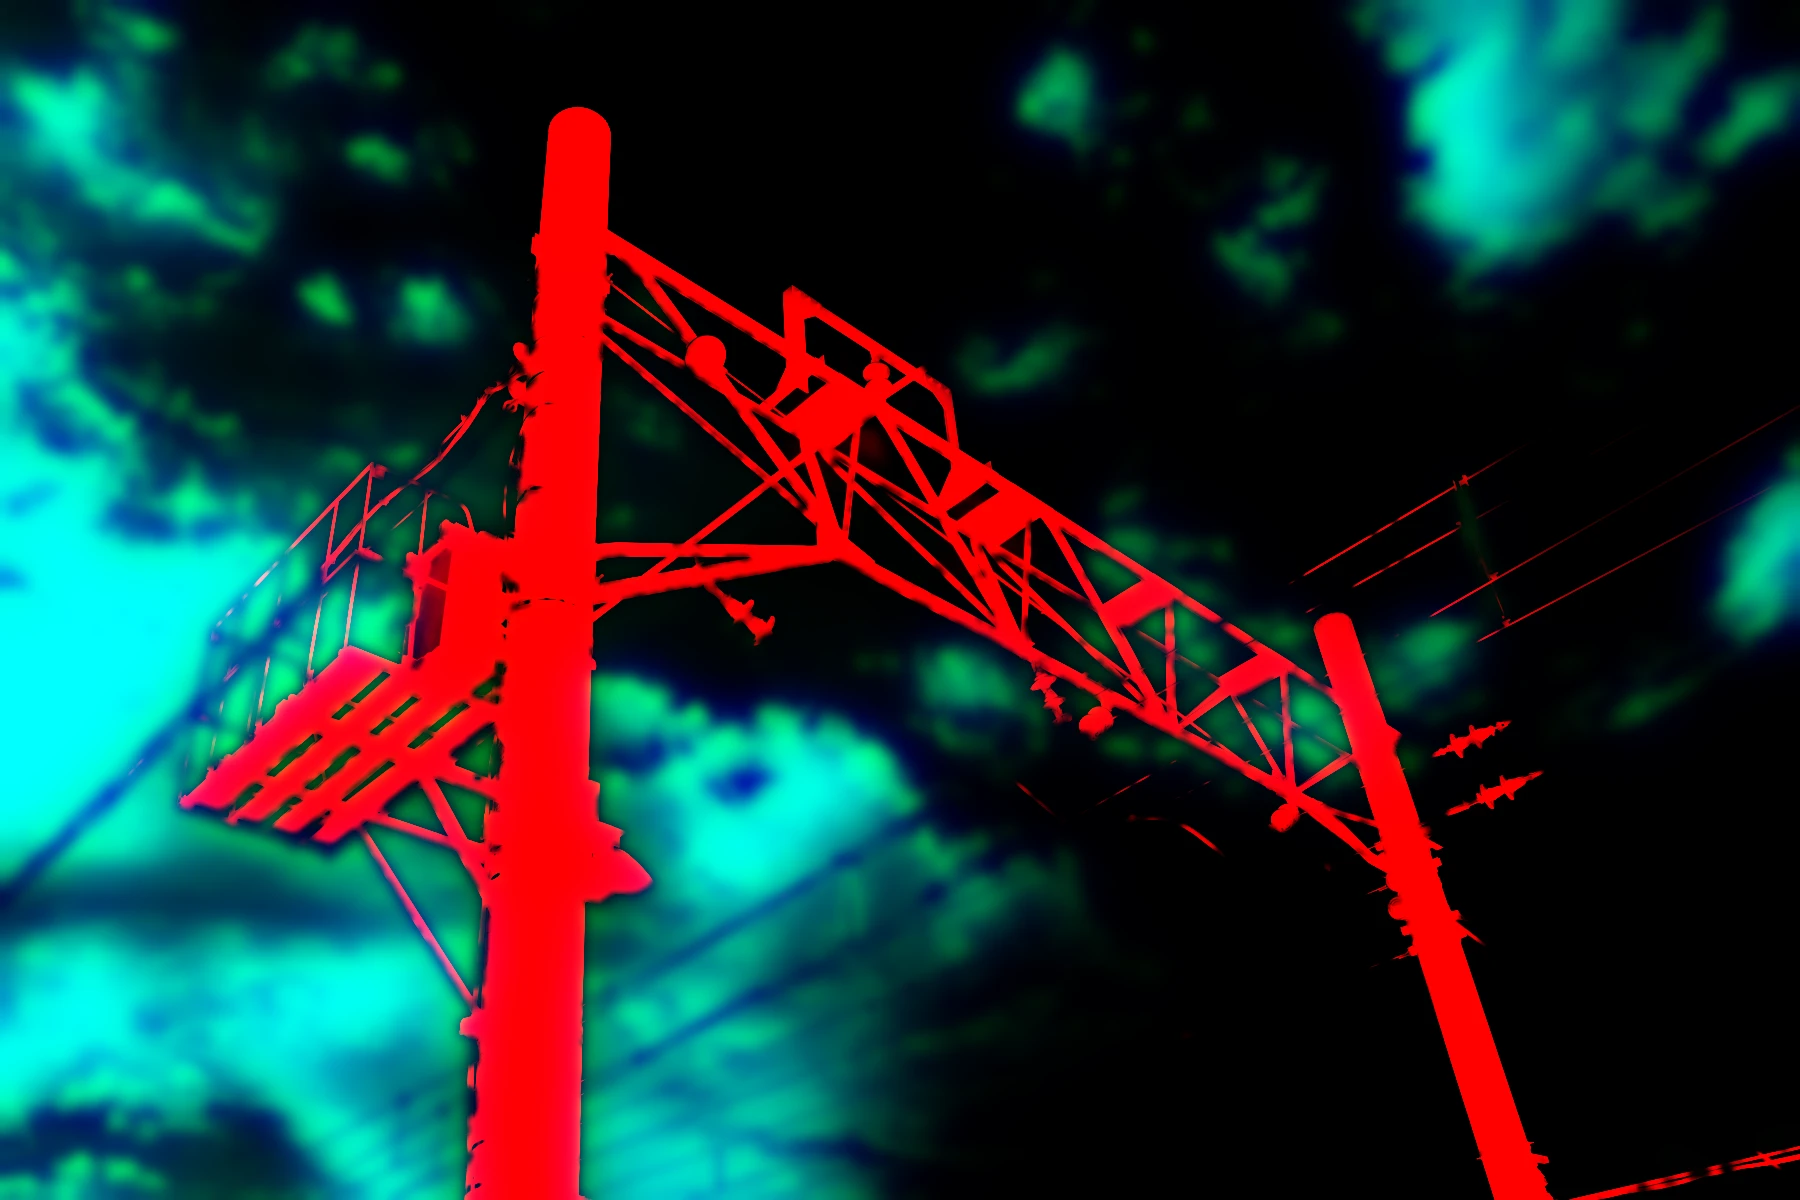
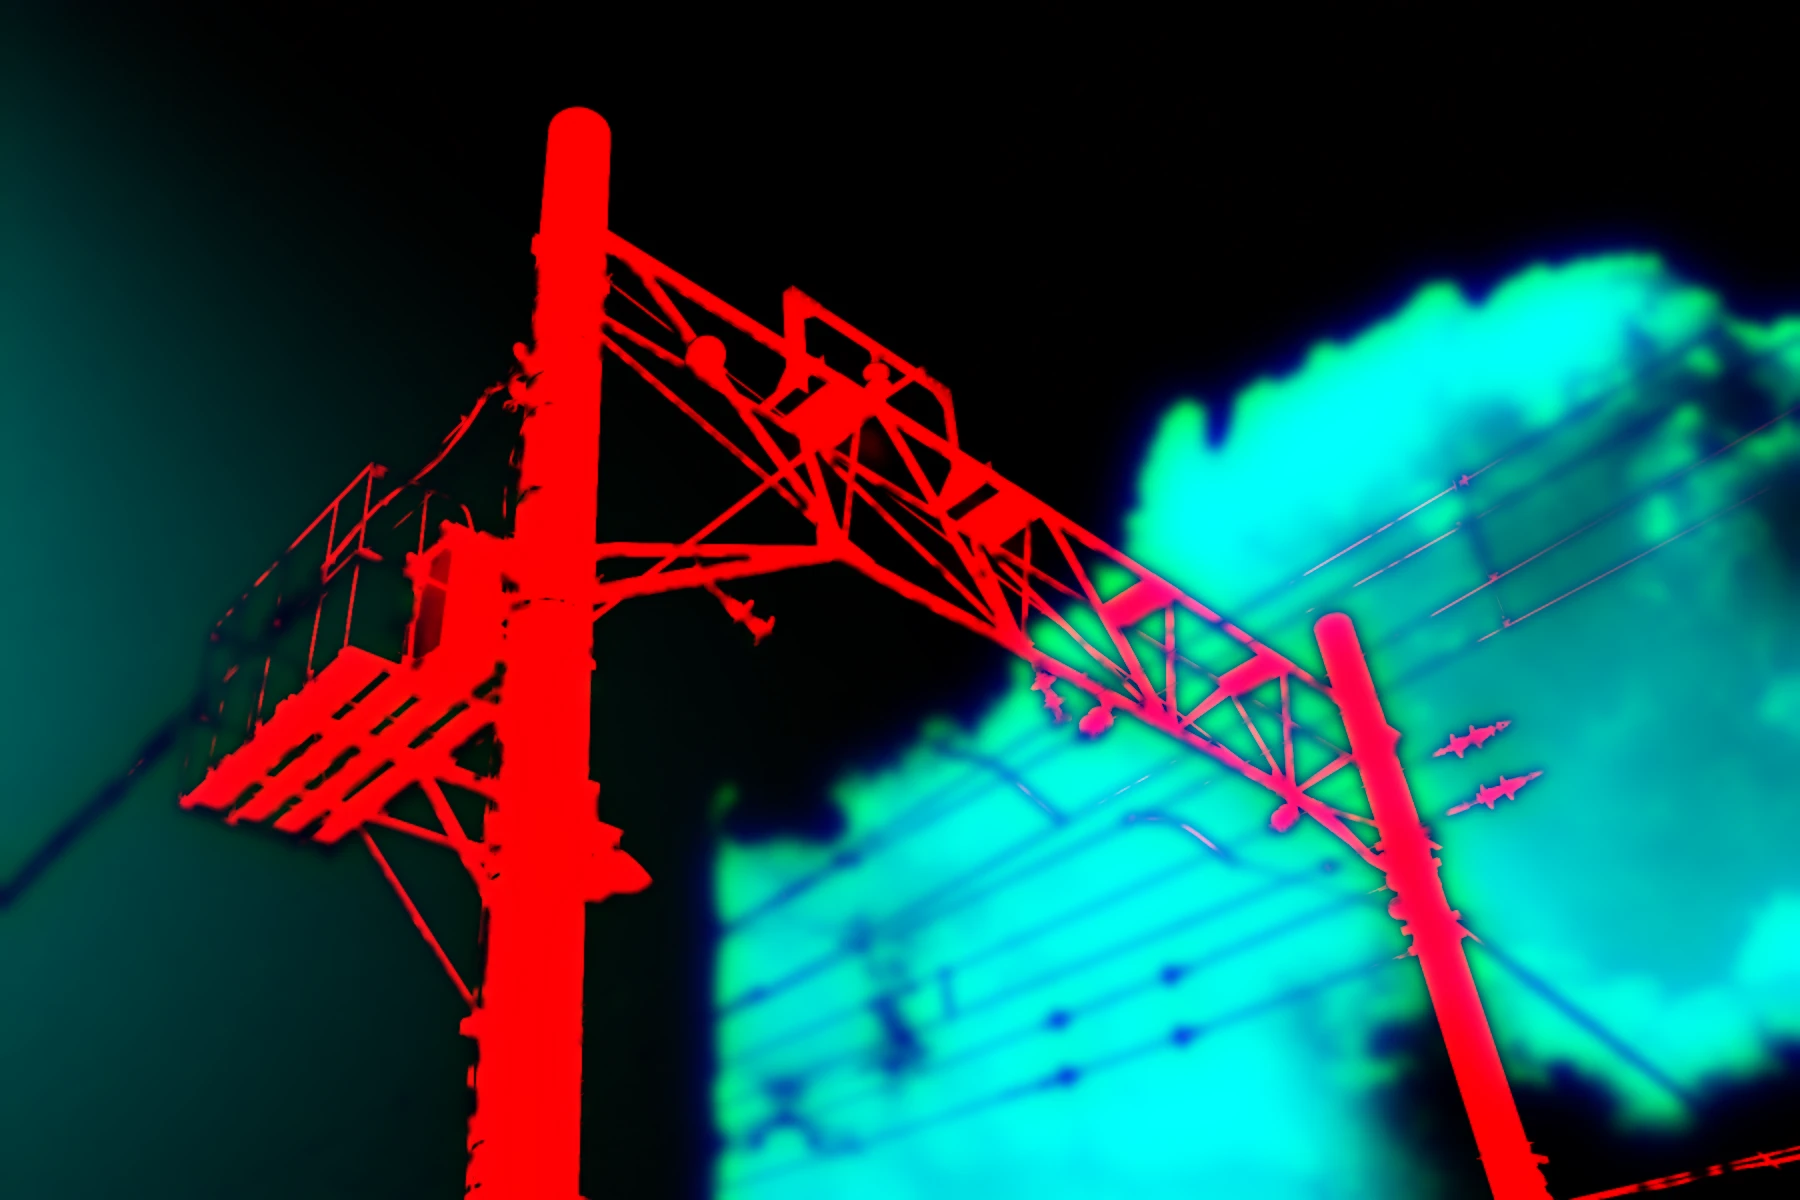
Lab: climb catenary round 1
Claude-Session: https://claude.ai/code/session_01RqENhngNCzDFmJWDZueXGV

diff --git a/src/app/lab/catenary/catenaryEngine.js b/src/app/lab/catenary/catenaryEngine.js
@@ -142,13 +142,17 @@ const CLOUD_TOP = [0xf6, 0xf3, 0xec];
 // chroma (PRINT_WHITE), and a strong aim only made a cream patch beside the
 // pale-blue body of a small cloud.
 const CLOUD_AIM = [1.02, 1, 0.95];
-const CLOUD_LIFT = 0.64;
+// The cumulus behind the gantry is already a sculpted, sunlit tower as
+// photographed (tools/depth/bakes/catenary/sky.py): the lift and the S-curve
+// only lay a little warmth on its tops (about 240-246 after the print); at
+// full strength they flattened its lobes to one creamy white.
+const CLOUD_LIFT = 0.2;
 // The cloud's modelling (see PLATE): where its range starts (blurred luma,
 // gamma), how far the S-curve goes (0 straight, 1 the doubled smoothstep),
 // and how far the shade masses draw toward CLOUD_SHADE, the blue-grey of a
 // cumulus underside lit only by the sky.
 const CLOUD_FROM = 0.6;
-const SCULPT = 0.6;
+const SCULPT = 0.2;
 const SHADE_TINT = 0.6;
 const CLOUD_SHADE = [0x9d, 0xb6, 0xcf];
 // Toward the sun, degrees in the photograph (0 right, 90 up): upper left,
@@ -161,7 +165,9 @@ const SUN = 125;
 // a cloud's width round it and slips softly over the steel's edges. The
 // steel takes DIFFUSE_STEEL of it: enough that the bloom overlaps a member
 // beside the cloud, not so much that the one silhouette goes grey.
-const DIFFUSE = 0.45;
+// Lowered with the one big cloud: a frame-wide veil at the old strength
+// greyed the truss and the far pole where they cross it.
+const DIFFUSE = 0.25;
 const DIFFUSE_RADIUS = 1.3; // scale on the rings (0.022, 0.05 of the width)
 const DIFFUSE_STEEL = 0.28;
 // The cloud's edge (see PLATE): the warm tint is keyed tight on the modelled
@@ -175,7 +181,7 @@ const WARM_KEY = [0.8, 0.93];
 // blotches, which the warm key and the print would push to olive.
 const CORE_NEUTRAL = 0.8;
 const EDGE_BLUE = 0.4;
-const RELIEF = 0.2;
+const RELIEF = 0.5;
 // Halation, the film's own optics rather than its grade: light that went
 // through the emulsion, bounced off the base (no remjet) and came back
 // through the red layer a little way off. Over the finished linear scene,

diff --git a/tools/depth/bakes/catenary/sky.py b/tools/depth/bakes/catenary/sky.py
@@ -1,0 +1,240 @@
+# Catenary, stage 4: the sky behind the gantry. Runs after plate.py and
+# key.py, on copies of what they wrote.
+#
+#   python3 -I sky.py <work_dir> <public_dir> <cloud_photo>
+#
+#   <work_dir>/plate-shot.webp  the clean plate as plate.py wrote it
+#   <work_dir>/key-shot.webp    the key as key.py wrote it
+#   <cloud_photo>               public/lab/film-test/cumulus-pole.jpg
+#
+# The photograph's sky carries a dozen small scattered puffs; nothing in the
+# frame is the one glowing cumulus of herb's refs. Here they all go:
+#  1. The steel and every wire still in the plate are separated from the sky
+#     as a soft matte: the key's structure (R), and anything thin that sits
+#     darker than both its own neighbourhood and the clean sky (wires, stays,
+#     bolts, the cage).
+#  2. The clean sky is a smooth fit (a cubic in x, y, per linear channel) to
+#     the plate's own clear-sky pixels, so its gradient, hue and the cobalt it
+#     deepens to at the top stay the photograph's; a fine, luma-only grain
+#     measured off the plate's sky goes back on top of it.
+#  3. One towering cumulus is taken from a second photograph (the clean side
+#     of the tower in cumulus-pole.jpg, left of it a pole and wires), mirrored
+#     so its billowed, sun-facing flank looks toward the gantry, and set
+#     behind the truss and the far pole on the right. Its own sky is unmixed
+#     out of it (cloud opacity from the red-to-blue ratio, premultiplied), so
+#     its thin edges take this sky, not that one, with no rim of either. It is
+#     developed a little brighter (the brightest tops about 240-244 here,
+#     nothing at 255) and its cut sides lie past the turned frame.
+#  4. The new sky goes in behind the steel by difference: each pixel adds
+#     (1 - steel) times the change of background under it, against the old
+#     background filled in under the steel, so a mast edge that was mixed
+#     with cobalt is now mixed with cloud, and no blue outline is left.
+#  5. The key's cloud light (G, B) is rebuilt from the new plate, and its
+#     structure (R) is let go where the new cloud now shows bright through
+#     the truss, the way key.py lets it go over the old.
+import os
+import shutil
+import sys
+
+import cv2
+import numpy as np
+
+WORK, PUB, CLOUD = sys.argv[1], sys.argv[2], sys.argv[3]
+for name in ("plate", "key"):
+    if not os.path.exists(f"{WORK}/{name}-shot.webp"):
+        shutil.copy(f"{PUB}/{name}.webp", f"{WORK}/{name}-shot.webp")
+
+LUMA = np.array([0.2126, 0.7152, 0.0722], np.float32)
+# The cumulus: the source columns kept (left of them the pole), the scale
+# (plate px per source px) and where the source's top-left lands. Mirrored,
+# so source x = SRC_X1 meets the plate's right edge.
+SRC_X0, SRC_X1 = 1000, 2400
+SCALE = 1.45
+TOP = 300  # plate row of the source's row 0
+EXTEND = 110.0  # source px the cut base is carried on and frays over
+# Developed brighter: linear gain on the cloud, premultiplied.
+GAIN = 1.2
+
+
+def srgb_to_lin(c):
+    return np.where(c <= 0.04045, c / 12.92, ((c + 0.055) / 1.055) ** 2.4).astype(np.float32)
+
+
+def lin_to_srgb(c):
+    c = np.clip(c, 0, 1)
+    return np.where(c <= 0.0031308, c * 12.92, 1.055 * np.power(c, 1 / 2.4) - 0.055).astype(np.float32)
+
+
+def smooth(a, b, x):
+    t = np.clip((x - a) / (b - a), 0, 1)
+    return t * t * (3 - 2 * t)
+
+
+def load(p):
+    return cv2.imread(p, cv2.IMREAD_COLOR)[:, :, ::-1].astype(np.float32) / 255
+
+
+def hsv(rgb8):
+    h = cv2.cvtColor(np.clip(rgb8 * 255, 0, 255).astype(np.uint8), cv2.COLOR_RGB2HSV_FULL).astype(np.float32)
+    return h[..., 0] * 360 / 256, h[..., 1] / 255, h[..., 2] / 255
+
+
+def polyfit(img, mask, deg=3, step=6):
+    H, W = mask.shape
+    ys, xs = np.mgrid[0:H:step, 0:W:step]
+    m = mask[::step, ::step] > 0.5
+    x, y = xs[m] / W, ys[m] / H
+
+    def basis(x, y):
+        return np.stack([x**i * y**j for i in range(deg + 1) for j in range(deg + 1 - i)], -1)
+
+    A = basis(x, y)
+    coef = [np.linalg.lstsq(A, img[::step, ::step, c][m], rcond=None)[0] for c in range(3)]
+    gy, gx = np.mgrid[0:H, 0:W].astype(np.float32)
+    B = basis(gx / W, gy / H)
+    return np.stack([B @ k for k in coef], -1).astype(np.float32)
+
+
+def fill(img, w, levels=9):
+    # Push-pull: what is under the mask is filled from around it, coarse to fine.
+    num, den = img * w[..., None], w.copy()
+    pyr = [(num, den)]
+    for _ in range(levels):
+        num, den = cv2.pyrDown(num), cv2.pyrDown(den)
+        pyr.append((num, den))
+    est = pyr[-1][0] / np.maximum(pyr[-1][1], 1e-6)[..., None]
+    for num, den in reversed(pyr[:-1]):
+        est = cv2.resize(est, (num.shape[1], num.shape[0]), interpolation=cv2.INTER_LINEAR)
+        k = np.clip(den * 4, 0, 1)[..., None]
+        est = num / np.maximum(den, 1e-6)[..., None] * k + est * (1 - k)
+    return est
+
+
+# ---------------------------------------------------------------- the plate
+plate = load(f"{WORK}/plate-shot.webp")
+H, W = plate.shape[:2]
+lin = srgb_to_lin(plate)
+yg = lin_to_srgb(lin @ LUMA)
+key = load(f"{WORK}/key-shot.webp")
+R = cv2.resize(key[..., 0], (W, H), interpolation=cv2.INTER_LINEAR)
+hue, sat, val = hsv(plate)
+
+# Clear sky: blue, saturated, not steel, not lifted by cloud. Fitted, then
+# refitted without what sat well above the first fit (thin cloud).
+skyish = (hue > 195) & (hue < 228) & (sat > 0.3) & (R < 0.02)
+skyish &= cv2.erode(skyish.astype(np.uint8), np.ones((9, 9), np.uint8)) > 0
+sky = polyfit(lin, skyish.astype(np.float32))
+for _ in range(2):
+    rb = lin[..., 0] / np.maximum(lin[..., 2], 1e-4)
+    rbs = sky[..., 0] / np.maximum(sky[..., 2], 1e-4)
+    ok = skyish & (rb < rbs * 1.08) & ((lin @ LUMA) < (sky @ LUMA) * 1.08)
+    sky = polyfit(lin, ok.astype(np.float32))
+skyY = lin_to_srgb(sky @ LUMA)
+
+# The steel and the wires left in the plate: the key's structure, and what is
+# thin and darker than both the clean sky and its own surroundings.
+close = cv2.morphologyEx(yg, cv2.MORPH_CLOSE, cv2.getStructuringElement(cv2.MORPH_ELLIPSE, (11, 11)))
+thin = smooth(0.02, 0.08, close - yg) * smooth(0.02, 0.07, skyY - yg)
+# Darker than the sky over a wider reach too: the cage, the box's shadow side.
+dark = smooth(0.05, 0.14, skyY - yg) * smooth(0.12, 0.3, 1 - sat)
+fg = np.clip(np.maximum(np.maximum(R, thin), dark), 0, 1)
+fg = np.maximum(fg, cv2.GaussianBlur(fg, (0, 0), 0.7) * 0.9)
+
+# The old background under the steel, for the difference.
+w = (1 - smooth(0.0, 0.05, cv2.dilate(fg, np.ones((5, 5), np.uint8)))).astype(np.float32)
+oldbg = fill(lin, w)
+
+# Grain: fine, luma only, at the plate's own sky level.
+hp = yg - cv2.GaussianBlur(yg, (0, 0), 2.0)
+gstd = float(np.std(hp[ok])) if ok.any() else 0.004
+rng = np.random.default_rng(7)
+grain = cv2.GaussianBlur(rng.standard_normal((H, W)).astype(np.float32), (0, 0), 0.6)
+grain *= gstd / max(float(grain.std()), 1e-6)
+
+# ---------------------------------------------------------------- the cloud
+src = load(CLOUD)
+sH, sW = src.shape[:2]
+sl = srgb_to_lin(src)
+sy = lin_to_srgb(sl @ LUMA)
+shue, ssat, _ = hsv(src)
+# Its own wires: thin and dark, painted out.
+sclose = cv2.morphologyEx(sy, cv2.MORPH_CLOSE, cv2.getStructuringElement(cv2.MORPH_ELLIPSE, (15, 15)))
+wire = cv2.dilate(((sclose - sy) > 0.05).astype(np.uint8), np.ones((5, 5), np.uint8))
+wire[:, : SRC_X0 - 40] = 0
+src8 = cv2.inpaint((src * 255).astype(np.uint8), wire, 6, cv2.INPAINT_TELEA)
+src = src8.astype(np.float32) / 255
+sl = srgb_to_lin(src)
+shue, ssat, _ = hsv(src)
+# Its sky, fitted on the clear blue above and right of the tower.
+s_ok = (shue > 200) & (shue < 230) & (ssat > 0.38)
+s_ok[:, :SRC_X0] = False
+ssky = polyfit(sl, s_ok.astype(np.float32), deg=2)
+rb = sl[..., 0] / np.maximum(sl[..., 2], 1e-4)
+rbs = ssky[..., 0] / np.maximum(ssky[..., 2], 1e-4)
+a = smooth(0.0, 1.0, np.clip((rb - rbs) / np.maximum(0.86 - rbs, 0.05), 0, 1))
+a = np.maximum(a, smooth(0.04, 0.3, (sl @ LUMA) / np.maximum(ssky @ LUMA, 1e-4) - 1))
+P = sl - (1 - a[..., None]) * ssky  # premultiplied cloud
+
+# Mirror and place: build the plate->source map.
+gy, gx = np.mgrid[0:H, 0:W].astype(np.float32)
+sx = SRC_X0 + (W - 1 - gx) / SCALE
+sy_ = (gy - TOP) / SCALE
+# Past the source's own right edge (here the cloud's left, mirrored) that
+# frame cut the base of the tower. It is carried on by reflection and let
+# dissolve on its own light: the thinnest of it goes first, the dense lobes
+# last, over EXTEND source px, so the base frays off the way a cumulus base
+# does instead of stopping on a line.
+d = np.maximum(sx - (sW - 1), 0)
+sxr = np.where(sx > sW - 1, 2 * (sW - 1) - sx, sx).astype(np.float32)
+Pm = cv2.remap(P, sxr, sy_, cv2.INTER_CUBIC, borderMode=cv2.BORDER_REPLICATE)
+am = np.clip(cv2.remap(a, sxr, sy_, cv2.INTER_CUBIC, borderMode=cv2.BORDER_REPLICATE), 0, 1)
+dens = cv2.GaussianBlur(am * np.clip(Pm @ LUMA, 0, 1) ** 0.5, (0, 0), 6)
+dens /= max(float(dens.max()), 1e-4)
+fray = smooth(-0.12, 0.12, dens - d / EXTEND)
+# Above the source's top it is sky; its cut right side (source x = SRC_X0)
+# lies on the plate's own edge.
+fade = (fray * (sy_ >= 0) * (sx >= SRC_X0) * (sy_ <= sH - 1)).astype(np.float32)
+fade = cv2.GaussianBlur(fade, (0, 0), 2)
+am *= fade
+Pm *= fade[..., None]
+# One mass: a scrap the fray left apart from the tower is let go.
+n, lab, st, _ = cv2.connectedComponentsWithStats((am > 0.04).astype(np.uint8), connectivity=8)
+if n > 2:
+    keep = cv2.dilate((lab == 1 + int(np.argmax(st[1:, cv2.CC_STAT_AREA]))).astype(np.uint8), np.ones((9, 9), np.uint8))
+    keep = cv2.GaussianBlur(keep.astype(np.float32), (0, 0), 3)
+    am *= keep
+    Pm *= keep[..., None]
+
+newbg = sky * (1 - am[..., None]) + GAIN * np.clip(Pm, 0, None)
+ng = lin_to_srgb(newbg) + grain[..., None] * (1 - 0.6 * am[..., None])
+newbg = srgb_to_lin(np.clip(ng, 0, 1))
+
+# ---------------------------------------------------------------- composite
+out = lin + (1 - fg[..., None]) * (newbg - oldbg)
+out = np.clip(out, 0, 1)
+s8 = np.clip(lin_to_srgb(out) * 255 + 0.5, 0, 255).astype(np.uint8)
+cv2.imwrite(PUB + "/plate.webp", s8[:, :, ::-1], [cv2.IMWRITE_WEBP_QUALITY, 92])
+if os.environ.get("DEBUG"):
+    cv2.imwrite(WORK + "/fg.png", (fg * 255).astype(np.uint8))
+    cv2.imwrite(WORK + "/cloud-a.png", (am * 255).astype(np.uint8))
+
+# ---------------------------------------------------------------- the key
+KW, KH = key.shape[1], key.shape[0]
+p2 = cv2.resize(s8.astype(np.float32) / 255, (KW, KH), interpolation=cv2.INTER_AREA)
+y2 = lin_to_srgb(srgb_to_lin(p2) @ LUMA)
+p0 = cv2.resize(plate, (KW, KH), interpolation=cv2.INTER_AREA)
+y0 = lin_to_srgb(srgb_to_lin(p0) @ LUMA)
+f_old = 1 - smooth(0.5, 0.68, cv2.GaussianBlur(y0, (0, 0), 0.7))
+f_new = 1 - smooth(0.5, 0.68, cv2.GaussianBlur(y2, (0, 0), 0.7))
+s = key[..., 0] * np.clip(f_new / np.maximum(f_old, 1e-3), 0, 1)
+mx, mn = p2.max(2), p2.min(2)
+chroma = (mx - mn) / np.maximum(mx, 1e-4)
+cloud = smooth(0.62, 0.9, y2) * (1 - smooth(0.25, 0.45, chroma)) * (1 - s)
+thin_l = cv2.GaussianBlur(cloud, (0, 0), 0.0035 * KW)
+wide_l = cv2.GaussianBlur(cloud, (0, 0), 0.014 * KW)
+k8 = np.clip(np.stack([s, thin_l, wide_l], -1) * 255 + 0.5, 0, 255).astype(np.uint8)
+cv2.imwrite(PUB + "/key.webp", k8[:, :, ::-1], [cv2.IMWRITE_WEBP_QUALITY, 90])
+
+top = np.percentile(lin_to_srgb(out @ LUMA)[am > 0.5] * 255, [50, 99, 99.9]) if (am > 0.5).any() else []
+print("sky.py: grain", round(gstd, 4), "cloud px", int((am > 0.5).sum()), "cloud luma p50/p99/p99.9", np.round(top, 1),
+      "clipped", int((s8 >= 255).all(2).sum()))
